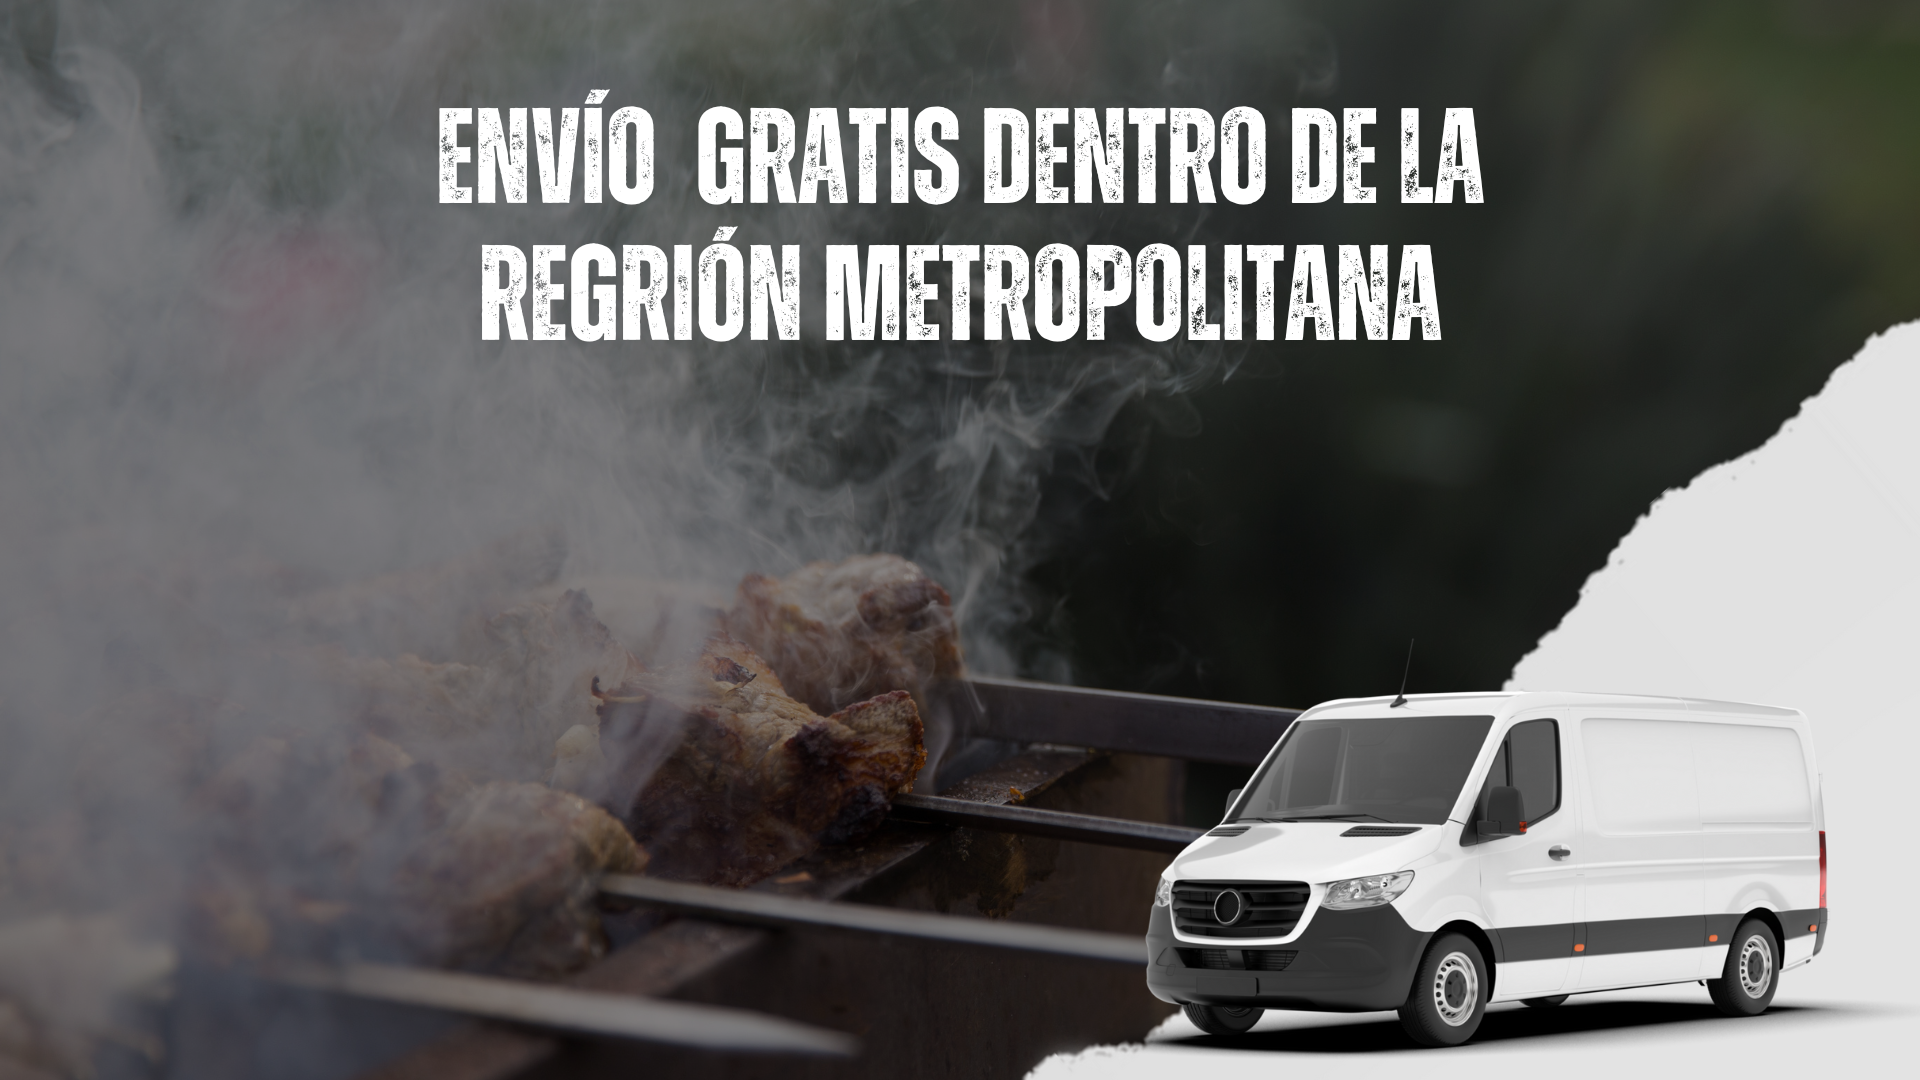
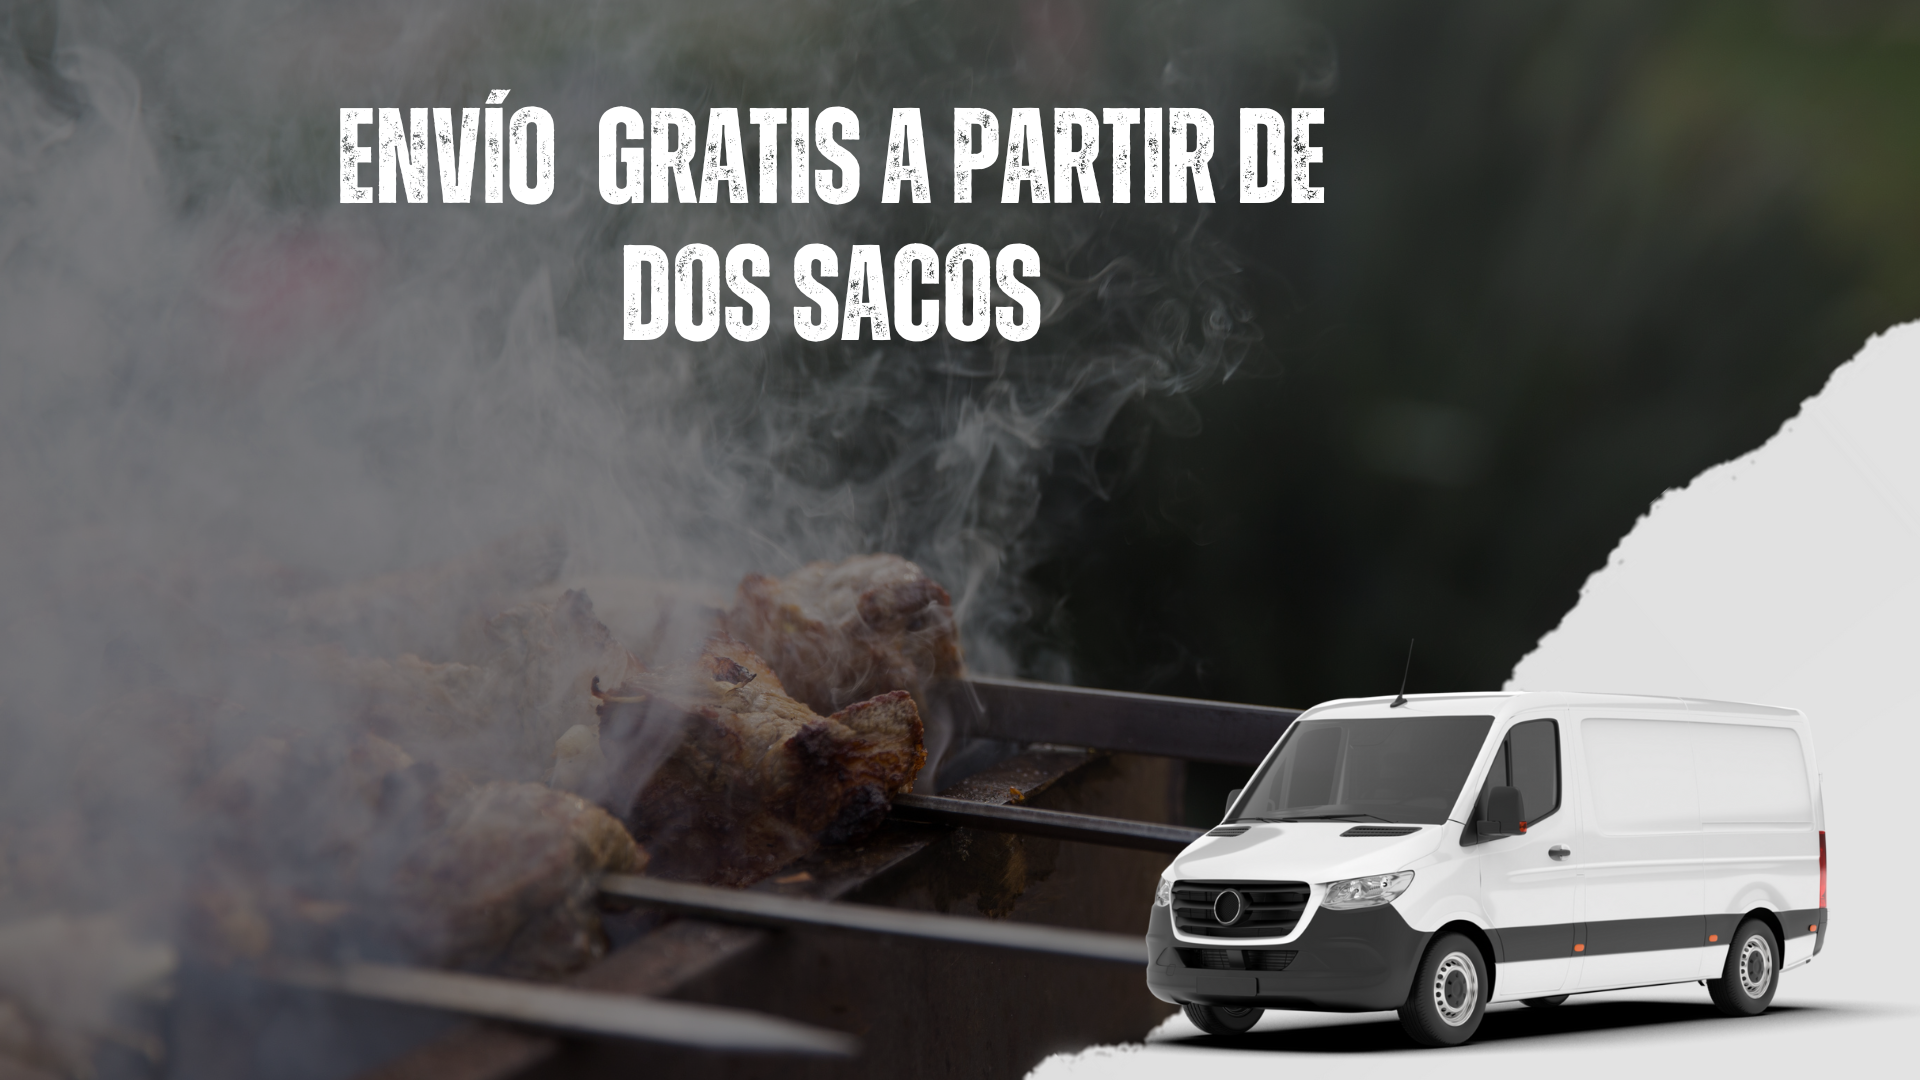
arreglos listos

Changed region(s): [[0.1562, 0.0917, 0.7812, 0.3361]]

diff --git a/index.html b/index.html
@@ -46,7 +46,7 @@
 
 
     <nav class="main-navbar">
-        <img src="./img/logo.png" alt="Logo" class="main-logo">
+        <img src="./img/logo.png"  alt="Logo" class="main-logo">
     </nav>
     
      
@@ -172,14 +172,14 @@
       <h3>Carbón Quebracho Blanco</h3>
       <p>Saco Carbón Quebracho Blanco 20 kilos</p>
       <h3>$17.000</h3>
-      <button>Comprar</button>
+      <button><a href="https://wa.me/56988396185?text=Hola,%20La%20veguita.%20Quiero%20comprar%20carb%C3%B3n%20quebracho%20blanco" class="a-products">Comprar</a></button>
     </div>
     <div class="cards_inner">
       <img src="./img/espino-1-1.png" alt="Producto 2">
       <h3>Carbón de Espino</h3>
       <p>Saco Carbón de Espino </p>
       <h3>$18.500</h3>
-      <button>Comprar</button>
+      <button><a href="https://wa.me/56988396185?text=%0AHola,%20La%20Veguita.%20Quiero%20comprar%20carb%C3%B3n%20de%20espino" class="a-products">Comprar</a></button>
     </div>
   </div>
 
@@ -278,7 +278,7 @@
 
     <div class="flex-container">
         <div class="marca">ENVIO GRATIS</div>
-        <div class="descripcion">A PARTIR DE $24.990</div>
+        <div class="descripcion">A PARTIR DE DOS SACOS</div>
     </div>
 
 
@@ -310,9 +310,9 @@
 
     <div class="swiffy-slider slider-item-ratio slider-item-ratio-29x9 slider-nav-autoplay slider-indicators-round slider-nav-animation-slow" data-slider-nav-autoplay-interval="3000">
         <ul class="slider-container">
-            <li id="slide1" class="slide-visible"><img src="./img/enviogratis.png" alt="..." loading="lazy"></li>
-            <li id="slide2" class=""><img src="./img/contacto.png" alt="..." loading="lazy"></li>
-            <li id="slide3" class=""><img src="./img/ubicación.png" alt="..." loading="lazy"></li>
+            <li id="slide1" class="slide-visible"><img src="./img/HORARIOS.png" alt="..." loading="lazy"></li>
+            <li id="slide2" class=""><img src="./img/UBICACIONES.png" alt="..." loading="lazy"></li>
+          
           
     
         </ul>
@@ -323,7 +323,7 @@
         <ul class="slider-indicators">
             <li class=""></li>
             <li class=""></li>
-            <li class=""></li>
+            
            
         </ul>
     </div>
@@ -413,8 +413,8 @@
             <h2>ARBOLEDA SUR 0583,</h2>
             <p>QUILICURA</p>
             <div class="main-contact">
-              <span>Angelica</span>
-              <a href="tel:+56981575137">+56 9 8839 6185</a>
+              <span>Cecilia</span>
+              <a href="tel:+56981575137">+56 9 82946549</a>
             </div>
           </div>
           
@@ -422,12 +422,12 @@
             <h2>HORARIOS DE ATENCIÓN</h2>
             <p>09:00 HS A 19:00 HS</p>
             <div class="main-contact">
-              <span>Sebastián</span>
-              <a href="tel:+56975586117">+56 9 7558 6117</a>
+              <span>Angelica</span>
+              <a href="tel:+56975586117">+56 9 8839 6185</a>
             </div>
             <div class="main-contact">
-              <span>Roberto</span>
-              <a href="tel:+56981380374">+56 9 8138 0374</a>
+              <span>Pablo</span>
+              <a href="tel:+56981380374">+56 9 7213 0952</a>
             </div>
           </div>
         </div>
@@ -467,7 +467,7 @@
             <h2 class="text-center edit">Contacto</h2>
             <p class="text-center edit">¡Contactate vía WhatsApp para recibir nuestras ofertas!</p>
         </div>
-        <button class="btn btn-primary edit" type="button" style="background: rgba(0,0,0,0);" >Enviar </button>
+        <button class="btn btn-primary edit" type="button" style="background: rgba(0,0,0,0);" ><a href="https://wa.me/56988396185?text=Hola,%20La%20Veguita.%20Quiero%20comprar%20carb%C3%B3n.">Contacto</a> </button>
     </div>
   
   
@@ -501,7 +501,8 @@
       <div class="footer">
       <div class="row">
       
-      <a href="https://www.instagram.com/carbonsantiagolaveguita/"><i class="fa fa-instagram"></i></a>
+        <a href="https://www.facebook.com/profile.php?id=61563168834512&locale=es_LA"><i class="fa fa-facebook"></i></a>
+        <a href="https://www.instagram.com/carbonsantiagolaveguita/"><i class="fa fa-instagram"></i></a>
       </div>
       
       <div class="row">

diff --git a/css/style.css b/css/style.css
@@ -22,7 +22,7 @@ body {
 }
 
 .main-logo {
-  max-height: 90px; 
+  max-height: 135px; 
   height: auto; 
 }
 
@@ -1147,6 +1147,7 @@ img {
 
 /* Título de la tarjeta */
 .cards_inner h3 {
+  font-family: "Outfit", sans-serif;
   text-align: center;
   margin: 15px 0;
   font-size: 1.5em;
@@ -1191,7 +1192,10 @@ img {
 
 
 
-
+.a-products {
+  color: white;
+  text-decoration: none;
+}
 
 
 
